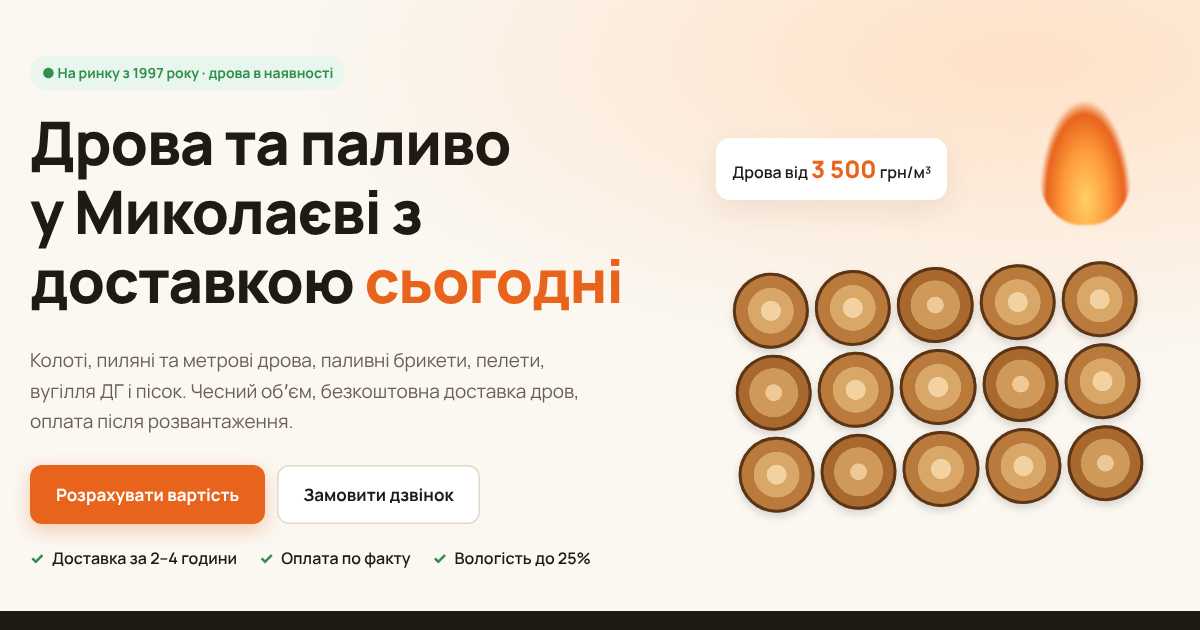
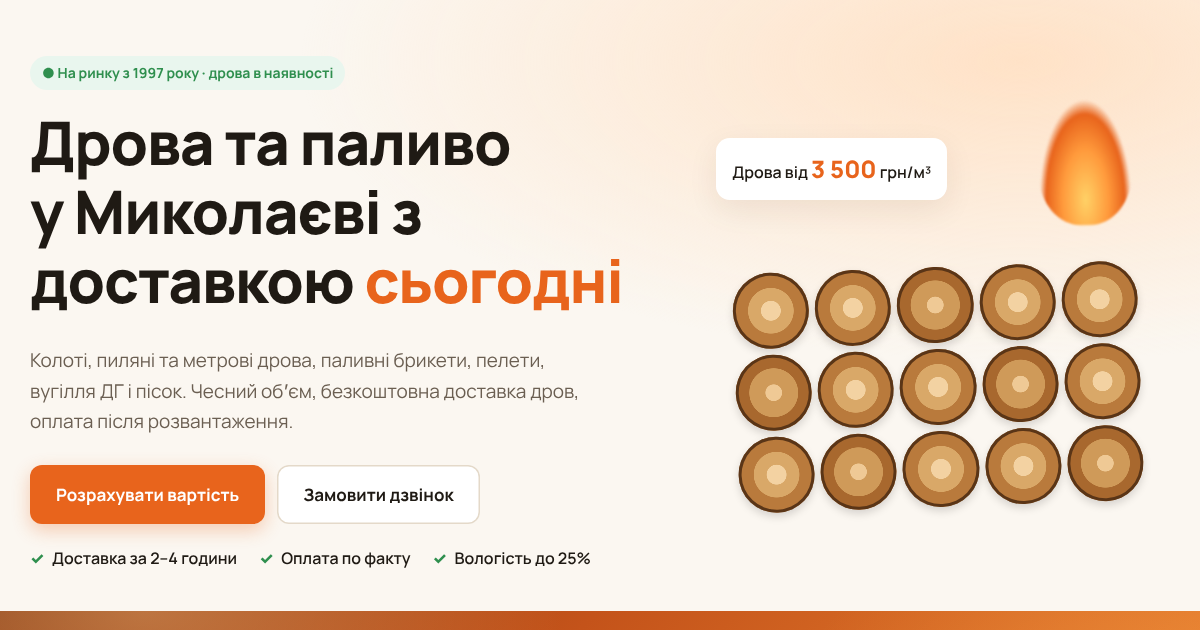
Тёплый градиент вместо чёрных блоков, светлый футер и мобильная панель
Claude-Session: https://claude.ai/code/session_018ZsronspomhEHWMNB4vjRB

Changed region(s): [[0.0, 0.9651, 1.0, 1.0]]

diff --git a/public/styles.css b/public/styles.css
@@ -189,3 +189,25 @@ details p{color:var(--muted)}
 .cta-card{background:var(--dark);color:#fff;border-color:var(--dark)}
 .cta-card p{color:#cbbfb0}
 .cta-card .big-phone{font-size:26px;margin:4px 0 14px}
+
+/* warm theme: replaces black blocks */
+:root{--ember:linear-gradient(135deg,#8c3a10 0%,#c4531a 45%,#e8812f 100%)}
+.sec-dark,.trust,.cta-card{background:
+  radial-gradient(700px 360px at 12% 0%,rgba(255,214,150,.35),transparent 60%),
+  radial-gradient(600px 400px at 95% 100%,rgba(255,170,80,.35),transparent 60%),
+  var(--ember);color:#fff;border-color:transparent}
+.sec-dark{position:relative;overflow:hidden}
+.sec-dark::before{content:"";position:absolute;inset:0;pointer-events:none;opacity:.12;
+  background-image:repeating-radial-gradient(circle at 85% 30%,#fff 0 1px,transparent 1px 22px)}
+.sec-dark>.wrap{position:relative}
+.sec-dark .sub,.sec-dark .muted,.cta-card p,.trust span{color:#ffe9d6}
+.trust b,.calc output,.big-phone{color:#fff}
+.calc label{color:#fff}
+input[type=range]{accent-color:#fff}
+.sec-dark .card{box-shadow:0 20px 50px rgba(90,30,5,.35)}
+.cta-card .btn{background:#fff;color:var(--fire-d);box-shadow:none}
+.cta-card .btn:hover{background:#fff3e8}
+.foot{background:#f3ece1;color:var(--muted);border-top:1px solid var(--line)}
+.foot b{color:var(--ink)}
+.foot a{color:var(--fire-d)}
+.mob-bar{background:rgba(255,250,244,.97)!important;box-shadow:0 -6px 20px rgba(60,35,10,.12)}
